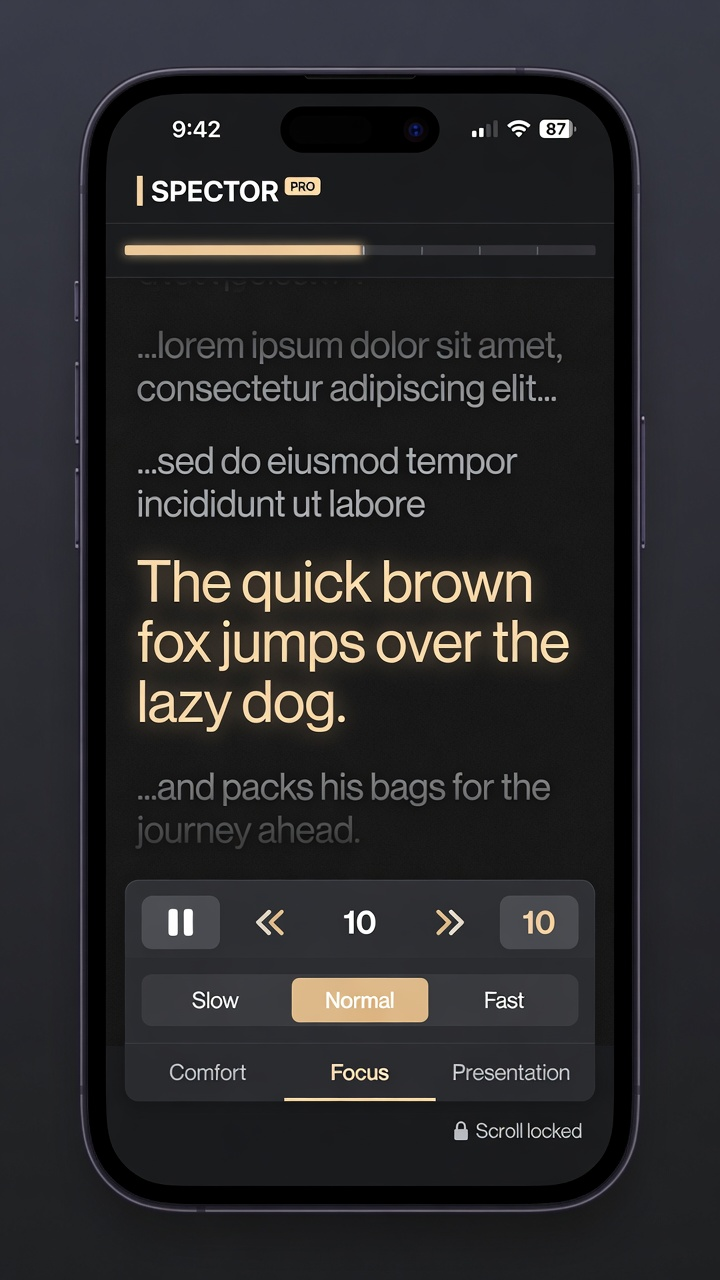
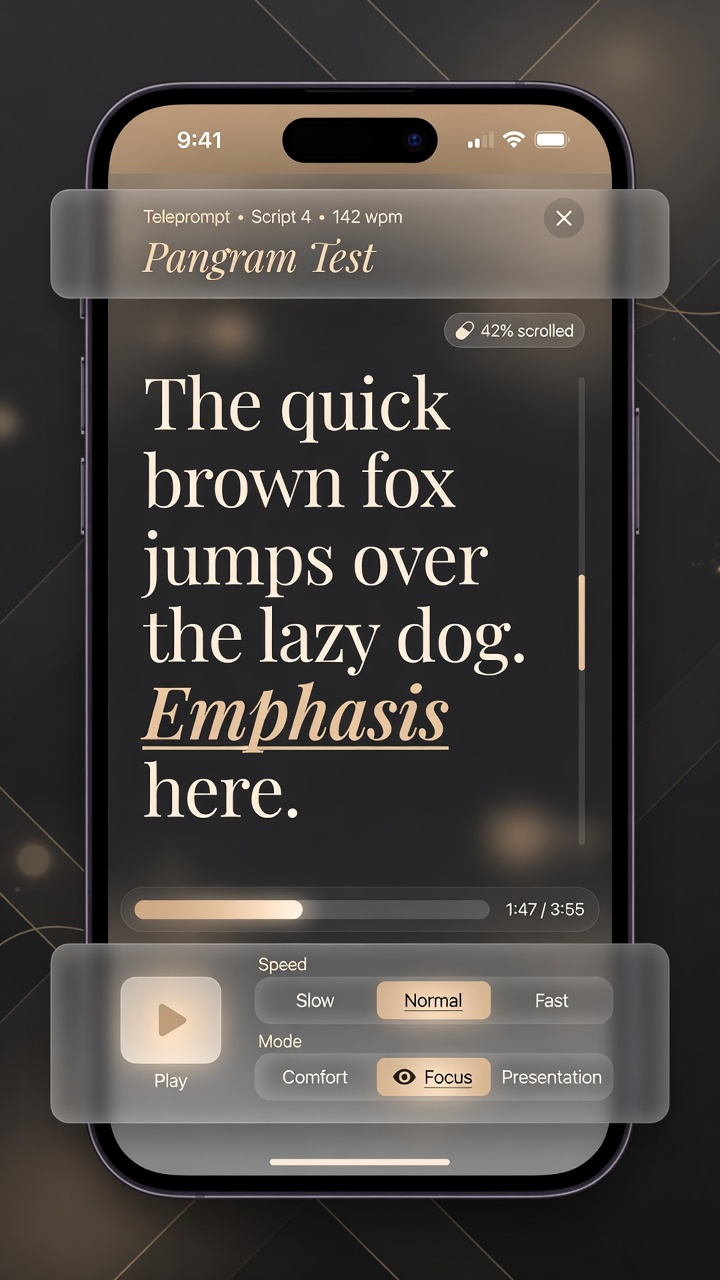
UI polish: replaced demo video and images with higher quality realistic generations. Added liquid glass (glassmorphism + blur) styling to all buttons (install, cue, sample, secondary, etc). Added haptics (vibrate) + short click sound (Web Audio) feedback on every button click in landing and player f

diff --git a/public/style.css b/public/style.css
@@ -170,9 +170,9 @@ textarea:focus { border-color: #555; }
 .btn-primary {
     width: 100%;
     padding: 18px 24px;
-    background: var(--accent);
+    background: rgba(255, 255, 255, 0.15);
     color: #111;
-    border: none;
+    border: 1px solid rgba(255, 255, 255, 0.3);
     border-radius: var(--radius-pill);
     font-size: 17px;
     font-weight: 600;
@@ -181,25 +181,37 @@ textarea:focus { border-color: #555; }
     display: inline-block;
     text-align: center;
     font-family: inherit;
+    backdrop-filter: blur(20px);
+    -webkit-backdrop-filter: blur(20px);
+    box-shadow: 0 4px 30px rgba(0, 0, 0, 0.1);
 }
 
-.btn-primary:hover { background: var(--accent-dim); }
+.btn-primary:hover { 
+    background: rgba(232, 213, 183, 0.25); 
+    transform: translateY(-1px);
+}
 .btn-primary:active { transform: scale(0.985); }
 
 .btn-secondary {
     padding: 14px 20px;
-    background: rgba(255, 255, 255, 0.06);
+    background: rgba(255, 255, 255, 0.08);
     color: #CCC;
-    border: 1px solid rgba(255, 255, 255, 0.08);
+    border: 1px solid rgba(255, 255, 255, 0.2);
     border-radius: var(--radius-pill);
     font-size: 15px;
     font-weight: 500;
     cursor: pointer;
     transition: all 0.2s ease;
     font-family: inherit;
+    backdrop-filter: blur(16px);
+    -webkit-backdrop-filter: blur(16px);
+    box-shadow: 0 2px 10px rgba(0, 0, 0, 0.1);
 }
 
-.btn-secondary:hover { background: rgba(255, 255, 255, 0.1); }
+.btn-secondary:hover { 
+    background: rgba(255, 255, 255, 0.15); 
+    border-color: rgba(255, 255, 255, 0.3);
+}
 
 .btn-ghost {
     padding: 8px 14px;
@@ -240,58 +252,68 @@ textarea:focus { border-color: #555; }
 
 .cue-btn {
     padding: 4px 10px;
-    background: rgba(255, 255, 255, 0.06);
+    background: rgba(255, 255, 255, 0.08);
     color: #CCC;
-    border: 1px solid rgba(255, 255, 255, 0.08);
+    border: 1px solid rgba(255, 255, 255, 0.2);
     border-radius: var(--radius-pill);
     font-size: 12px;
     font-weight: 500;
     cursor: pointer;
     transition: all 0.2s ease;
     font-family: inherit;
+    backdrop-filter: blur(12px);
+    -webkit-backdrop-filter: blur(12px);
 }
 
 .cue-btn:hover {
-    background: rgba(232, 213, 183, 0.12);
+    background: rgba(232, 213, 183, 0.18);
     color: var(--accent);
-    border-color: rgba(232, 213, 183, 0.3);
+    border-color: rgba(232, 213, 183, 0.4);
+    transform: translateY(-1px);
 }
 
 .sample-btn {
     padding: 6px 12px;
-    background: rgba(255, 255, 255, 0.06);
+    background: rgba(255, 255, 255, 0.08);
     color: #CCC;
-    border: 1px solid rgba(255, 255, 255, 0.08);
+    border: 1px solid rgba(255, 255, 255, 0.2);
     border-radius: var(--radius-pill);
     font-size: 13px;
     font-weight: 500;
     cursor: pointer;
     transition: all 0.2s ease;
     font-family: inherit;
+    backdrop-filter: blur(12px);
+    -webkit-backdrop-filter: blur(12px);
 }
 
 .sample-btn:hover {
-    background: rgba(232, 213, 183, 0.12);
+    background: rgba(232, 213, 183, 0.18);
     color: var(--accent);
-    border-color: rgba(232, 213, 183, 0.3);
+    border-color: rgba(232, 213, 183, 0.4);
+    transform: translateY(-1px);
 }
 
 .btn-install {
     display: inline-block;
     padding: 10px 18px;
-    background: rgba(255, 255, 255, 0.06);
+    background: rgba(255, 255, 255, 0.12);
     color: var(--accent);
-    border: 1px solid rgba(232, 213, 183, 0.25);
+    border: 1px solid rgba(232, 213, 183, 0.3);
     border-radius: var(--radius-pill);
     font-size: 14px;
     font-weight: 600;
     cursor: pointer;
     transition: all 0.2s var(--transition-smooth);
+    backdrop-filter: blur(20px);
+    -webkit-backdrop-filter: blur(20px);
+    box-shadow: 0 4px 30px rgba(0, 0, 0, 0.1);
 }
 
 .btn-install:hover {
-    background: rgba(232, 213, 183, 0.12);
+    background: rgba(232, 213, 183, 0.22);
     color: #111;
+    transform: translateY(-1px);
 }
 
 .btn-install:active {

diff --git a/public/app.html b/public/app.html
@@ -997,6 +997,7 @@
         setupControlsFade();
         setupBookmarks();
         setupGlassesButtonSim();
+        wireGlassButtons();
 
         // First-run in-product coach: highlight Comfort + hardware button story on very first visit
         let firstRun = false;
@@ -1052,6 +1053,52 @@
             window.location.href = 'index.html';
         });
         playerMotion.registerPageHideOnce(() => teardownSpatialAnchoring());
+    }
+
+    let audioContext;
+    function getAudioContext() {
+        if (!audioContext) {
+            try {
+                audioContext = new (window.AudioContext || window.webkitAudioContext)();
+            } catch(e) { return null; }
+        }
+        return audioContext;
+    }
+
+    function buttonFeedback() {
+        // Haptics for liquid glass feel
+        if (navigator.vibrate) {
+            navigator.vibrate(8);
+        }
+        // Short click sound
+        const ctx = getAudioContext();
+        if (ctx) {
+            try {
+                const osc = ctx.createOscillator();
+                const gain = ctx.createGain();
+                const filter = ctx.createBiquadFilter();
+                osc.type = 'sine';
+                osc.frequency.value = 1400;
+                filter.type = 'lowpass';
+                filter.frequency.value = 2200;
+                gain.gain.value = 0.08;
+                osc.connect(filter);
+                filter.connect(gain);
+                gain.connect(ctx.destination);
+                osc.start();
+                setTimeout(() => {
+                    gain.gain.exponentialRampToValueAtTime(0.001, ctx.currentTime + 0.12);
+                    setTimeout(() => osc.stop(), 150);
+                }, 25);
+            } catch(e) {}
+        }
+    }
+
+    function wireGlassButtons() {
+        const glassButtons = document.querySelectorAll('button');
+        glassButtons.forEach(btn => {
+            btn.addEventListener('click', () => buttonFeedback());
+        });
     }
 
     // ─── Pure-logic exerciser (drives shipped SpectorCore functions) ───

diff --git a/public/index.html b/public/index.html
@@ -335,6 +335,52 @@
             setTimeout(() => { if (err) err.style.display = 'none'; }, 3000);
         }
 
+        let audioContext;
+        function getAudioContext() {
+            if (!audioContext) {
+                try {
+                    audioContext = new (window.AudioContext || window.webkitAudioContext)();
+                } catch(e) { return null; }
+            }
+            return audioContext;
+        }
+
+        function buttonFeedback() {
+            // Haptics
+            if (navigator.vibrate) {
+                navigator.vibrate(8);
+            }
+            // Sound - short liquid click
+            const ctx = getAudioContext();
+            if (ctx) {
+                try {
+                    const osc = ctx.createOscillator();
+                    const gain = ctx.createGain();
+                    const filter = ctx.createBiquadFilter();
+                    osc.type = 'sine';
+                    osc.frequency.value = 1400;
+                    filter.type = 'lowpass';
+                    filter.frequency.value = 2200;
+                    gain.gain.value = 0.08;
+                    osc.connect(filter);
+                    filter.connect(gain);
+                    gain.connect(ctx.destination);
+                    osc.start();
+                    setTimeout(() => {
+                        gain.gain.exponentialRampToValueAtTime(0.001, ctx.currentTime + 0.12);
+                        setTimeout(() => osc.stop(), 150);
+                    }, 25);
+                } catch(e) {}
+            }
+        }
+
+        function wireGlassButtons() {
+            const glassButtons = document.querySelectorAll('.btn-primary, .btn-secondary, .btn-install, .cue-btn, .sample-btn, #glasses-button-sim');
+            glassButtons.forEach(btn => {
+                btn.addEventListener('click', () => buttonFeedback());
+            });
+        }
+
         function updateScriptMeta() {
             const textarea = document.getElementById('script-input');
             const text = textarea.value.trim();
@@ -447,6 +493,7 @@
             renderHistory();
             registerServiceWorker();
             initInstallPrompt();
+            wireGlassButtons();
 
             const textarea = document.getElementById('script-input');
             if (textarea) {